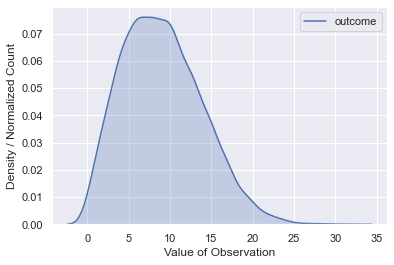
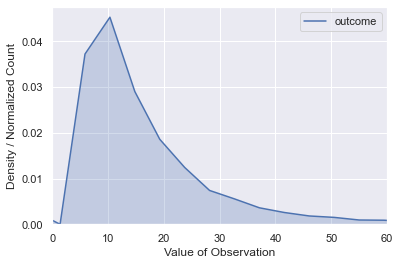
changes to post

diff --git a/_posts/2020-4-11-Poisson_Regression.md b/_posts/2020-4-11-Poisson_Regression.md
@@ -30,16 +30,16 @@ Let's create a dataframe from random randomly from a range
 
 
 ```python
-df = pd.DataFrame({'x': np.random.choice(np.arange(40), 10000),
-                   'y': np.random.choice(np.arange(40), 10000),
-                   'z': np.random.choice(np.arange(40), 10000)})
+df = pd.DataFrame({'x': np.random.normal(500, 250, 100000),
+                   'y': np.random.normal(500, 250, 100000),
+                   'z': np.random.normal(500, 250, 100000)})
 ```
 
 Let's also create an outcome variable using a random linear regression equation applied to our randomly generated featurespace
 
 
 ```python
-df['outcome'] = df['x']*.3+df['y']*.1+df['z']*.06
+df['outcome'] = df['x']*.003+df['y']*.001+df['z']*.0006
 ```
 
 Let's the resulting outcome
@@ -54,11 +54,11 @@ sns.kdeplot(df['outcome'],
 ![png](../images/output_9_0_pois.png?raw=True)
 
 
-We can see that the outcome variable is fairly symmetric. Let's treat each row's outcome as an expected value from a Poisson distribution and draw a random value from each distribution.
+We can see that the outcome variable is fairly symmetric. Let's treat each row's outcome as an expected value from a Poisson distribution and draw a random value from each distribution. Notice that we have to exponentiate the outcome variable. See the end of the notebook on Poisson regression for more information.
 
 
 ```python
-df['outcome'] = df['outcome'].apply(lambda x: np.random.poisson(x))
+df['outcome'] = np.exp(df['outcome']).apply(lambda x: np.random.poisson(x))
 ```
 
 
@@ -67,6 +67,7 @@ sns.kdeplot(df['outcome'],
             shade=True);
 plt.xlabel('Value of Observation');
 plt.ylabel('Density / Normalized Count');
+plt.xlim(0,60);
 ```
 
 
@@ -78,10 +79,10 @@ Now we can see that the fairly symmetric shape now has a distinct Poisson flavor
 
 ```python
 fig, ax = plt.subplots(1,2,figsize=(15,5))
-for i,j in [(0,10),
-            (10,20),
-            (20,30),
-            (30,40)
+for i,j in [(0,200),
+            (200,400),
+            (400,600),
+            (600,800)
             ]:
     hist_series = df[(df['x']>i) & 
                      (df['x']<j) &
@@ -108,6 +109,7 @@ ax[1].set_xlabel('Value of Observation');
 ax[0].set_ylabel('Density / Normalized Count');
 ax[0].set_title('Partitioned KDE');
 ax[1].set_title('Full KDE');
+ax[1].set_xlim(0,60);
 ```
 
 
